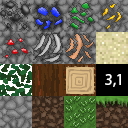
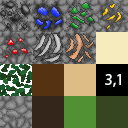
Changed tilesheet so it doesn't resemble minecraft, more of a simple style. Added coal block and generation.

Changed region(s): [[0.25, 0.5, 1.0, 1.0], [0.75, 0.25, 1.0, 0.5], [0.2812, 0.5, 0.3125, 0.6875]]

diff --git a/Assets/Scripts/TerrainGen.cs b/Assets/Scripts/TerrainGen.cs
@@ -49,7 +49,10 @@ public class TerrainGen
             if (y <= stoneHeight && caveSize < caveChance) //Add caveSize < caveChance
             {
                 //chunk.SetBlock(x - chunk.pos.x, y - chunk.pos.y, z - chunk.pos.z, new Block());
-                SetBlock(x, y, z, new Block(), chunk);
+                if(Random.Range(0, 2) >= 1)
+                    SetBlock(x, y, z, new Block(), chunk);
+                else
+                    SetBlock(x, y, z, new BlockCoal(), chunk);
             }
             else if (y <= dirtHeight && caveSize < caveChance)
             {

diff --git a/Assets/Blocks/BlockCoal.cs b/Assets/Blocks/BlockCoal.cs
@@ -1,0 +1,19 @@
+using System.Collections;
+using System.Collections.Generic;
+using UnityEngine;
+using System;
+[Serializable]
+public class BlockCoal : Block
+{
+    public BlockCoal()
+        : base()
+    {
+    }
+    public override Tile TexturePosition(Direction direction)
+    {
+        Tile tile = new Tile();
+        tile.x = 0;
+        tile.y = 3;
+        return tile;
+    }
+}
